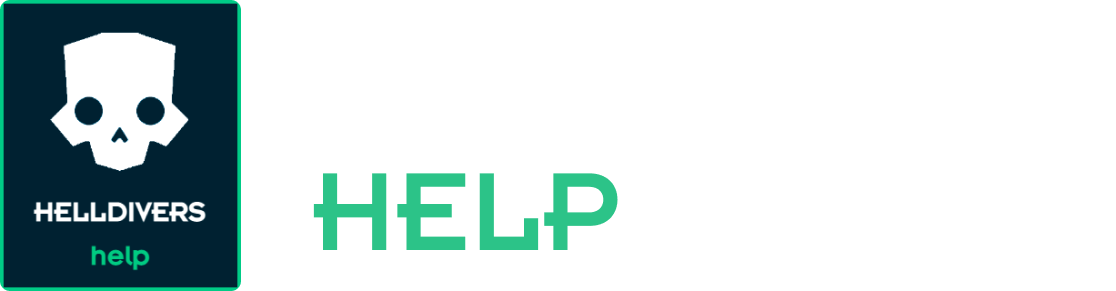
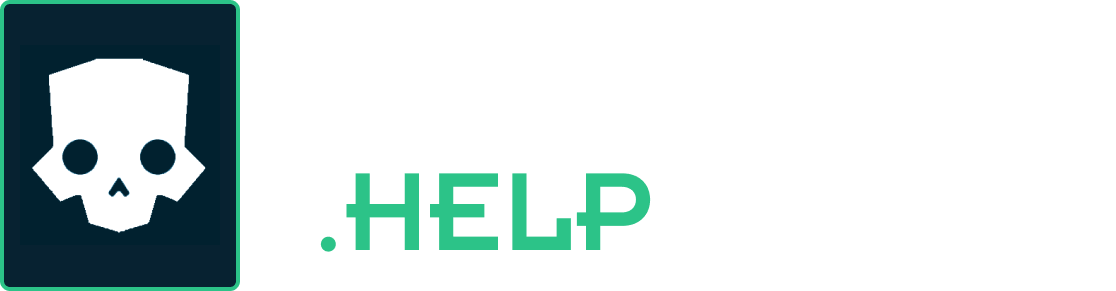
docs: Заменил изображение и сделал из 2-х параграфов заголовки

Changed region(s): [[0.0, 0.0, 0.2133, 1.0], [0.2742, 0.5876, 0.6093, 0.866], [0.0609, 0.8351, 0.1523, 0.9278]]

diff --git a/README.md b/README.md
@@ -6,14 +6,14 @@ HELLDIVERS.HELP - это сайт-помощник каждому Адскому
 
 ## Технологии, использованные в проекте:
 
-Фундамент приложения:
+### Фундамент приложения:
 
 - Next.js (14 версии);
 - React (18 версии);
 - TypeScript;
 - MobX (6 версии)
 
-Полезные библиотеки: 
+### Полезные библиотеки: 
 
 - Tailwind CSS - для легкой и удобной стилизации;
 - ESlint - для отлова ошибок;
